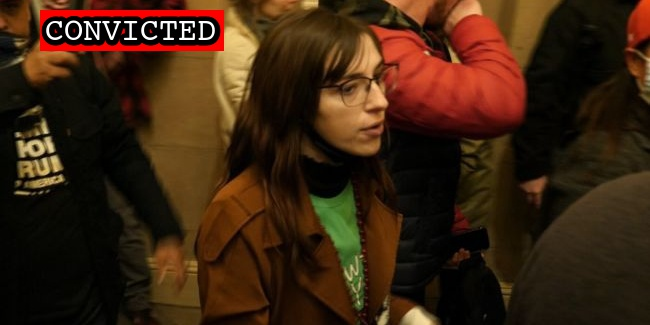
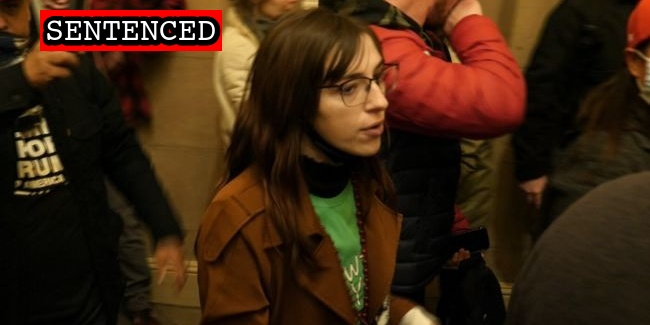
Sentences

Changed region(s): [[0.1538, 0.0308, 0.2769, 0.1538], [0.0615, 0.0308, 0.1231, 0.1538], [0.3385, 0.0308, 0.3692, 0.1538]]

diff --git a/docs/_suspects/riley-williams.md b/docs/_suspects/riley-williams.md
@@ -4,13 +4,13 @@ lastName: Williams
 hashtag: GreenShirtStairmaster
 aka:
 residence: Pennsylvania
-status: Convicted
+status: Sentenced
 date: 2021-01-17
 charged: 2021-01-17
 indicted: 2021-10-06
 convicted: 2022-11-21
 acquitted:
-sentenced:
+sentenced: 2023-03-23
 dismissed:
 deceased:
 plea_hearing:
@@ -41,32 +41,36 @@ caseName: USA v. WILLIAMS
 judge: Amy B. Jackson
 videos:
 charges:
-- code: 18 USC § 231(a)(3)
-  title: Obstruction of Law Enforcement During Civil Disorder
-  url: https://www.law.cornell.edu/uscode/text/18/231
-  felony: true
-- code: 18 USC § 111(a)(1)
-  title: Assaulting, resisting, or impeding certain officers or employees
-  url: https://www.law.cornell.edu/uscode/text/18/111
-  felony: true
-- code: 18 USC § 1752(a)(1)
-  title: Entering a restricted building or grounds
-  url: https://www.law.cornell.edu/uscode/text/18/1752
-  felony: false
-- code: 18 USC § 1752(a)(2)
-  title: Disorderly and disruptive conduct in a restricted building or grounds
-  url: https://www.law.cornell.edu/uscode/text/18/1752
-  felony: false
-- code: 40 USC § 5104(e)(2)(D)
-  title: Disorderly Conduct in a Capitol Building
-  url: https://www.law.cornell.edu/uscode/text/40/5104
-  felony: false
-- code: 40 USC § 5104(e)(2)(G)
-  title: Parading, demonstrating or picketing in a Capitol building
-  url: https://www.law.cornell.edu/uscode/text/40/5104
-  felony: false
+  - code: 18 USC § 231(a)(3)
+    title: Obstruction of Law Enforcement During Civil Disorder
+    url: https://www.law.cornell.edu/uscode/text/18/231
+    felony: true
+  - code: 18 USC § 111(a)(1)
+    title: Assaulting, resisting, or impeding certain officers or employees
+    url: https://www.law.cornell.edu/uscode/text/18/111
+    felony: true
+  - code: 18 USC § 1752(a)(1)
+    title: Entering a restricted building or grounds
+    url: https://www.law.cornell.edu/uscode/text/18/1752
+    felony: false
+  - code: 18 USC § 1752(a)(2)
+    title: Disorderly and disruptive conduct in a restricted building or grounds
+    url: https://www.law.cornell.edu/uscode/text/18/1752
+    felony: false
+  - code: 40 USC § 5104(e)(2)(D)
+    title: Disorderly Conduct in a Capitol Building
+    url: https://www.law.cornell.edu/uscode/text/40/5104
+    felony: false
+  - code: 40 USC § 5104(e)(2)(G)
+    title: Parading, demonstrating or picketing in a Capitol building
+    url: https://www.law.cornell.edu/uscode/text/40/5104
+    felony: false
 sentence:
+  - 3 years incarceration
+  - 3 years probation
+  - $2000 restitution
 ---
+
 - [News Report](https://www.npr.org/sections/insurrection-at-the-capitol/2021/01/18/957979421/fbi-seeking-woman-who-may-have-stolen-speaker-pelosis-laptop)
 - [Statement of Facts](https://www.justice.gov/opa/page/file/1357051/download)
 - [Complaint](https://www.justice.gov/opa/page/file/1357056/download)

diff --git a/docs/_suspects/geoffrey-shough.md b/docs/_suspects/geoffrey-shough.md
@@ -4,13 +4,13 @@ lastName: Shough
 hashtag: TexasPleather
 aka:
 residence: Texas
-status: Convicted
+status: Sentenced
 date: 2022-02-17
 charged: 2022-02-17
 indicted: 2022-06-01
 convicted: 2022-08-16
 acquitted:
-sentenced:
+sentenced: 2023-03-22
 dismissed:
 deceased:
 plea_hearing: 2022-08-16
@@ -41,12 +41,16 @@ caseName: USA v. SHOUGH
 judge: Dabney L. Friedrich
 videos:
 charges:
-- code: 18 USC § 231(a)(3)
-  title: Obstruction of Law Enforcement During Civil Disorder
-  url: https://www.law.cornell.edu/uscode/text/18/231
-  felony: true
+  - code: 18 USC § 231(a)(3)
+    title: Obstruction of Law Enforcement During Civil Disorder
+    url: https://www.law.cornell.edu/uscode/text/18/231
+    felony: true
 sentence:
+  - 6 months incarceration
+  - 1 year probation
+  - $2000 restitution
 ---
+
 - [News Report](https://www.newsweek.com/man-arrested-alleged-role-capitol-riot-after-ex-outs-him-fbi-1683868)
 - [Complaint](https://www.justice.gov/usao-dc/case-multi-defendant/file/1479011/download)
 - [Statement of Facts](https://www.justice.gov/usao-dc/case-multi-defendant/file/1479016/download)
